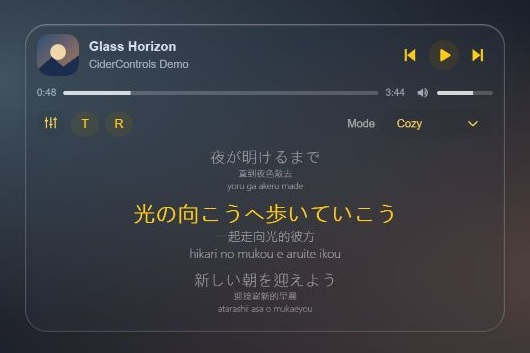
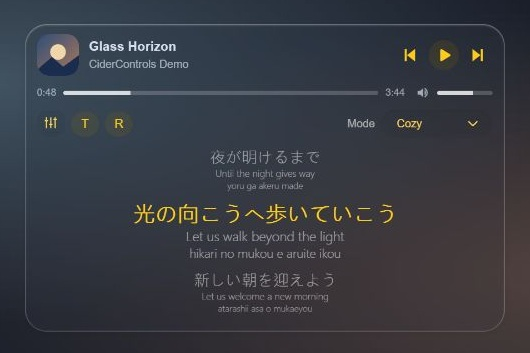
Fix English lyric translations and update preview

Changed region(s): [[0.3925, 0.8102, 0.6038, 0.8725], [0.3623, 0.6544, 0.6642, 0.6856], [0.3925, 0.4674, 0.6038, 0.5297]]

diff --git a/ciderControls.desktop/Lyrics.tsx b/ciderControls.desktop/Lyrics.tsx
@@ -17,14 +17,15 @@ type DisplayLine = LyricLine & { chinese?: boolean; };
 
 function key(text: string) { return text.normalize("NFKC").replace(/[\s\p{P}]/gu, "").toLowerCase(); }
 
-function localizations(lines: LyricLine[], ttml: string): LyricLine[] {
+export function localizations(lines: LyricLine[], ttml: string): LyricLine[] {
+    lines = lines.map(line => ({ ...line, translation: undefined }));
     if (!ttml) return lines;
     try {
         const doc = new DOMParser().parseFromString(ttml, "application/xml");
         if (doc.getElementsByTagName("parsererror").length) return lines;
         const elements = Array.from(doc.getElementsByTagName("*"));
         const translations = elements.filter(e => e.localName === "translation");
-        const translation = translations.find(e => (e.getAttribute("xml:lang") || "").startsWith("zh")) ?? translations[0];
+        const translation = translations.find(e => /^en(?:-|$)/i.test(e.getAttributeNS("http://www.w3.org/XML/1998/namespace", "lang") || e.getAttribute("xml:lang") || ""));
         const romanization = elements.find(e => e.localName === "transliteration");
         const collect = (parent: Element | undefined) => new Map(Array.from(parent?.getElementsByTagName("text") ?? []).map(e => [e.getAttribute("for") || "", e.textContent?.replace(/\s+/g, " ").trim() || ""]));
         const translated = collect(translation);
@@ -36,7 +37,7 @@ function localizations(lines: LyricLine[], ttml: string): LyricLine[] {
         }
         return lines.map(line => {
             const extra = metadata.get(key(line.text));
-            return { ...line, translation: line.translation || extra?.translation, romanization: line.romanization || extra?.romanization };
+            return { ...line, translation: extra?.translation, romanization: line.romanization || extra?.romanization };
         });
     } catch { return lines; }
 }
@@ -45,8 +46,8 @@ export function prepareLyrics(lines: LyricLine[], ttml: string): DisplayLine[] {
     const japanese = lines.some(line => /[\p{Script=Hiragana}\p{Script=Katakana}]/u.test(line.text)) || /xml:lang=["']ja(?:-[^"']*)?["']/.test(ttml);
     return lines.map(line => {
         const chinese = !japanese && /\p{Script=Han}/u.test(line.text);
-        const translation = chinese ? "" : traditional(line.translation || "");
-        return { ...line, chinese, translation: key(translation) === key(traditional(line.text)) ? "" : translation, romanization: chinese ? "" : line.romanization };
+        const translation = line.translation || "";
+        return { ...line, chinese, translation: key(translation) === key(line.text) ? "" : translation, romanization: chinese ? "" : line.romanization };
     });
 }
 
@@ -131,14 +132,13 @@ export function Lyrics({ playback, active, showTranslation, showRomanization }: 
                 setLines(localized);
                 setMessage(result.message);
                 if (!result.lines.length) timer = setTimeout(load, 15000);
-                else if (result.id && localized.some(l => l.text.trim() && !l.chinese)) {
-                    const translated = await Native.translations(result.id, { title: playback.title, artist: playback.artist, duration: playback.duration });
+                else if (result.id && localized.some(l => l.text.trim())) {
+                    const translated = await Native.translations(result.id);
                     if (!alive) return;
                     const map = new Map(translated.map(t => [key(t.line), t.translation]));
                     setLines(localized.map(line => {
-                        if (line.chinese) return line;
-                        const translation = traditional(map.get(key(line.text)) || line.translation || "");
-                        return { ...line, translation: key(translation) === key(traditional(line.text)) ? "" : translation };
+                        const translation = map.get(key(line.text)) || line.translation || "";
+                        return { ...line, translation: key(translation) === key(line.text) ? "" : translation };
                     }));
                 }
             } catch { if (alive) { setMessage("Synced lyrics are temporarily unavailable."); timer = setTimeout(load, 15000); } }

diff --git a/ciderControls.desktop/native.ts b/ciderControls.desktop/native.ts
@@ -9,7 +9,6 @@ import { readFile } from "fs/promises";
 import { join } from "path";
 import { load } from "yaml-js";
 
-import { neteaseTranslations, type TranslationTrack } from "./netease";
 import { romanizeJapanese } from "./romanization";
 
 export type Playback = {
@@ -137,7 +136,7 @@ export async function lyrics(_event: unknown): Promise<{ id: string; lines: Lyri
         if (!Array.isArray(data.lines)) return { id: "", lines: [], message: "No synced lyrics for this track.", ttml: "" };
         const lines = data.lines.map(record).filter(l => typeof l.start === "number" && Number.isFinite(l.start)).map(l => ({
             start: number(l.start), end: number(l.end, number(l.start)), text: text(l.text),
-            translation: text(l.translation), romanization: text(l.romanization),
+            romanization: text(l.romanization),
             words: Array.isArray(l.words) ? l.words.map(record).filter(w => typeof w.start === "number" && Number.isFinite(w.start) && typeof w.end === "number" && Number.isFinite(w.end)).map(w => ({ start: number(w.start), end: number(w.end), text: text(w.text) })) : []
         })).sort((a, b) => a.start - b.start);
         const localized = await romanizeJapanese(lines, text(record(data.source).language), join(__dirname, "cider-lyrics-dict")).catch(() => lines);
@@ -147,14 +146,20 @@ export async function lyrics(_event: unknown): Promise<{ id: string; lines: Lyri
     }
 }
 
-export async function translations(_event: unknown, id: string, track?: TranslationTrack): Promise<Array<{ line: string; translation: string; }>> {
+export async function translations(_event: unknown, id: string): Promise<Array<{ line: string; translation: string; }>> {
     if (!/^[a-zA-Z0-9._-]{1,128}$/.test(id)) return [];
-    const cider = (async () => { try {
-        const result = record(record(await request(`v2/lyrics/${encodeURIComponent(id)}/translations?language=zh`, undefined, "GET", 8000)).data);
-        return Array.isArray(result.translations) ? result.translations.map(record).map(t => ({ line: text(t.line), translation: text(t.translation) })) : [];
-    } catch { return []; } })();
-    const [fallback, netease] = await Promise.all([cider, track ? neteaseTranslations(track) : []]);
-    return [...fallback, ...netease];
+    // Cider can return 404 while a translation is still being generated.
+    for (let attempt = 0; attempt < 3; attempt++) {
+        try {
+            const result = record(record(await request(`v2/lyrics/${encodeURIComponent(id)}/translations?language=en`, undefined, "GET", 8000)).data);
+            if (result.language && !/^en(?:-|$)/i.test(text(result.language))) return [];
+            return Array.isArray(result.translations) ? result.translations.map(record).map(t => ({ line: text(t.line), translation: text(t.translation) })) : [];
+        } catch (error) {
+            if (attempt === 2 || !(error instanceof Error) || !error.message.includes("(404)")) return [];
+            await new Promise(resolve => setTimeout(resolve, 1500));
+        }
+    }
+    return [];
 }
 
 export type Equalizer = { enabled: boolean; frequencies: number[]; gain: number[]; Q: number[]; mix: number; vibrantBass: number; };

diff --git a/ciderControls.desktop/index.tsx b/ciderControls.desktop/index.tsx
@@ -30,7 +30,7 @@ const settings = definePluginSettings({
     },
     showTranslation: {
         type: OptionType.BOOLEAN,
-        description: "Show available Chinese lyric translations.",
+        description: "Show available English lyric translations.",
         default: true
     },
     showRomanization: {
@@ -139,7 +139,7 @@ function Player() {
     const playing = Boolean(playback?.playing);
     const title = playback?.title || "Cider";
     return (
-        <section className="eq-cider-player" data-cider-version="1.5.0" aria-label="Cider music controls" aria-busy={busy}>
+        <section className="eq-cider-player" data-cider-version="1.5.1" aria-label="Cider music controls" aria-busy={busy}>
             <div className="eq-cider-row">
                 <Button variant="none" className="eq-cider-artwork" aria-label={lyricsExpanded ? "Collapse lyrics" : "Expand lyrics"} title={lyricsExpanded ? "Collapse lyrics" : "Expand lyrics"} aria-expanded={lyricsExpanded} disabled={!ready} onClick={() => { settings.store.lyricsExpanded = !lyricsExpanded; }}>
                     {playback?.artwork && failedArtwork !== playback.artwork
@@ -166,7 +166,7 @@ function Player() {
             </div>}
             {ready && <div className="eq-cider-options">
                 <Button variant="none" size="iconOnly" className="eq-cider-option eq-cider-eq-button" aria-label="Open Cider Equalizer" title="Equalizer" onClick={openEqualizer}><Icon name="eq" /></Button>
-                <Button variant="none" className="eq-cider-option eq-cider-lyric-toggle" aria-label="Chinese translation" title="Chinese translation" aria-pressed={showTranslation} onClick={() => { settings.store.showTranslation = !showTranslation; }}>T</Button>
+                <Button variant="none" className="eq-cider-option eq-cider-lyric-toggle" aria-label="English translation" title="English translation" aria-pressed={showTranslation} onClick={() => { settings.store.showTranslation = !showTranslation; }}>T</Button>
                 <Button variant="none" className="eq-cider-option eq-cider-lyric-toggle" aria-label="Romanization" title="Romanization" aria-pressed={showRomanization} onClick={() => { settings.store.showRomanization = !showRomanization; }}>R</Button>
                 <div className="eq-cider-mode"><span>Mode</span><Button variant="none" className="eq-cider-mode-trigger" aria-label="Cider listening mode" aria-haspopup="menu" disabled={busy || !playback?.mode} onClick={event => {
                     const rect = event.currentTarget.getBoundingClientRect();

diff --git a/README.md b/README.md
@@ -2,12 +2,12 @@
 
 [繁體中文](README.zh-TW.md)
 
-A Windows desktop user plugin for **Equicord / Equibop** that puts Cider controls above your user panel, including when a voice panel is visible. Version **1.5.0** uses English UI labels by default.
+A Windows desktop user plugin for **Equicord / Equibop** that puts Cider controls above your user panel, including when a voice panel is visible. Version **1.5.1** uses English UI labels by default.
 
 
 ## Screenshots
 
-Component previews using demo playback data. The English version currently displays Chinese translations when available.
+Component previews using demo playback data. English UI with English lyric translations when available.
 
 ![English player and lyrics](docs/screenshots/player-en.jpg)
 
@@ -17,9 +17,9 @@ Component previews using demo playback data. The English version currently displ
 
 - Previous / play-pause / next, seek and volume, rounded artwork, long-title marquee.
 - Click the artwork to expand three synchronized lyric lines. The current line is larger and yellow; translation and romanization use smaller translucent text.
-- `T` toggles Chinese translations; `R` toggles romanization. Both choices are saved independently.
+- `T` toggles English translations; `R` toggles romanization. Both choices are saved independently.
 - Source-provided word timestamps drive word highlights. Line-only lyrics remain line-synchronized; timestamps are never fabricated.
-- NetEase Chinese translations are matched by song title, artist and duration, then aligned to original lyric text. Cider translations are the fallback. Simplified Chinese is displayed as Traditional Chinese; Chinese originals do not get a duplicate translation row.
+- English translations come from English-tagged TTML or Cider’s translation API (`language=en`), aligned to original lyric text. Chinese songs can also show English translations. Missing English translations stay hidden; Chinese translations are not used as a fallback. Cider generation-pending responses are retried briefly.
 - Local Japanese romanization with a bundled offline Kuromoji dictionary; existing source readings take priority.
 - Off / Gaming / Anti-fatigue / Cozy listening modes and a 10-band EQ with Vibrant Bass and Mix.
 - Frosted player / EQ styling. The player is hidden when Cider is unavailable by default.

diff --git a/README.zh-TW.md b/README.zh-TW.md
@@ -2,8 +2,10 @@
 
 [English](README.md)
 
-給 Windows **Equicord／Equibop** 的 Cider 控制插件。控制列位於個人區上方，進入語音時仍保持在語音面板上方。**1.5.0 發布版預設為英文介面**。
+給 Windows **Equicord／Equibop** 的 Cider 控制插件。控制列位於個人區上方，進入語音時仍保持在語音面板上方。**1.5.1 發布版預設為英文介面**。
 
+
+> 1.5.1 英文版的 T 改為英文歌詞翻譯，來源為英文 TTML 或 Cider API；無英文資料時不使用中文備援。下方繁中截圖為先前中文版本。
 
 ## 畫面截圖
 
@@ -17,9 +19,9 @@
 
 - 上一首、播放／暫停、下一首、播放進度、音量、圓角封面與過長歌名跑馬燈。
 - 點封面展開三行同步歌詞；目前一句較大、黃色，前後兩句較小，翻譯與羅馬拼音為透明白色小字。
-- `T` 切換中文翻譯，`R` 切換羅馬拼音，分別保存選擇。
+- `T` 切換英文翻譯，`R` 切換羅馬拼音，分別保存選擇。
 - 來源有逐字時間才顯示逐字高亮；只有逐行時間就維持逐行同步。
-- 網易雲翻譯依歌名、歌手與時長配對，再對應原文；缺少時沿用 Cider 翻譯。簡體轉繁體，中文原文不重複加翻譯。
+- 英文翻譯使用英文 TTML 或 Cider 的 `language=en` API，依原文對齊；中文歌也能顯示英文翻譯。沒有英文資料時隱藏翻譯，不使用網易雲中文備援。
 - 日文缺少來源讀音時，以內建離線 Kuromoji 字典轉羅馬拼音。
 - 聆聽模式：Off、Gaming、Anti-fatigue、Cozy；10 段 EQ、Vibrant Bass 與 Mix。
 - 毛玻璃播放器與 EQ；預設在 Cider 未連線時隱藏播放器。
